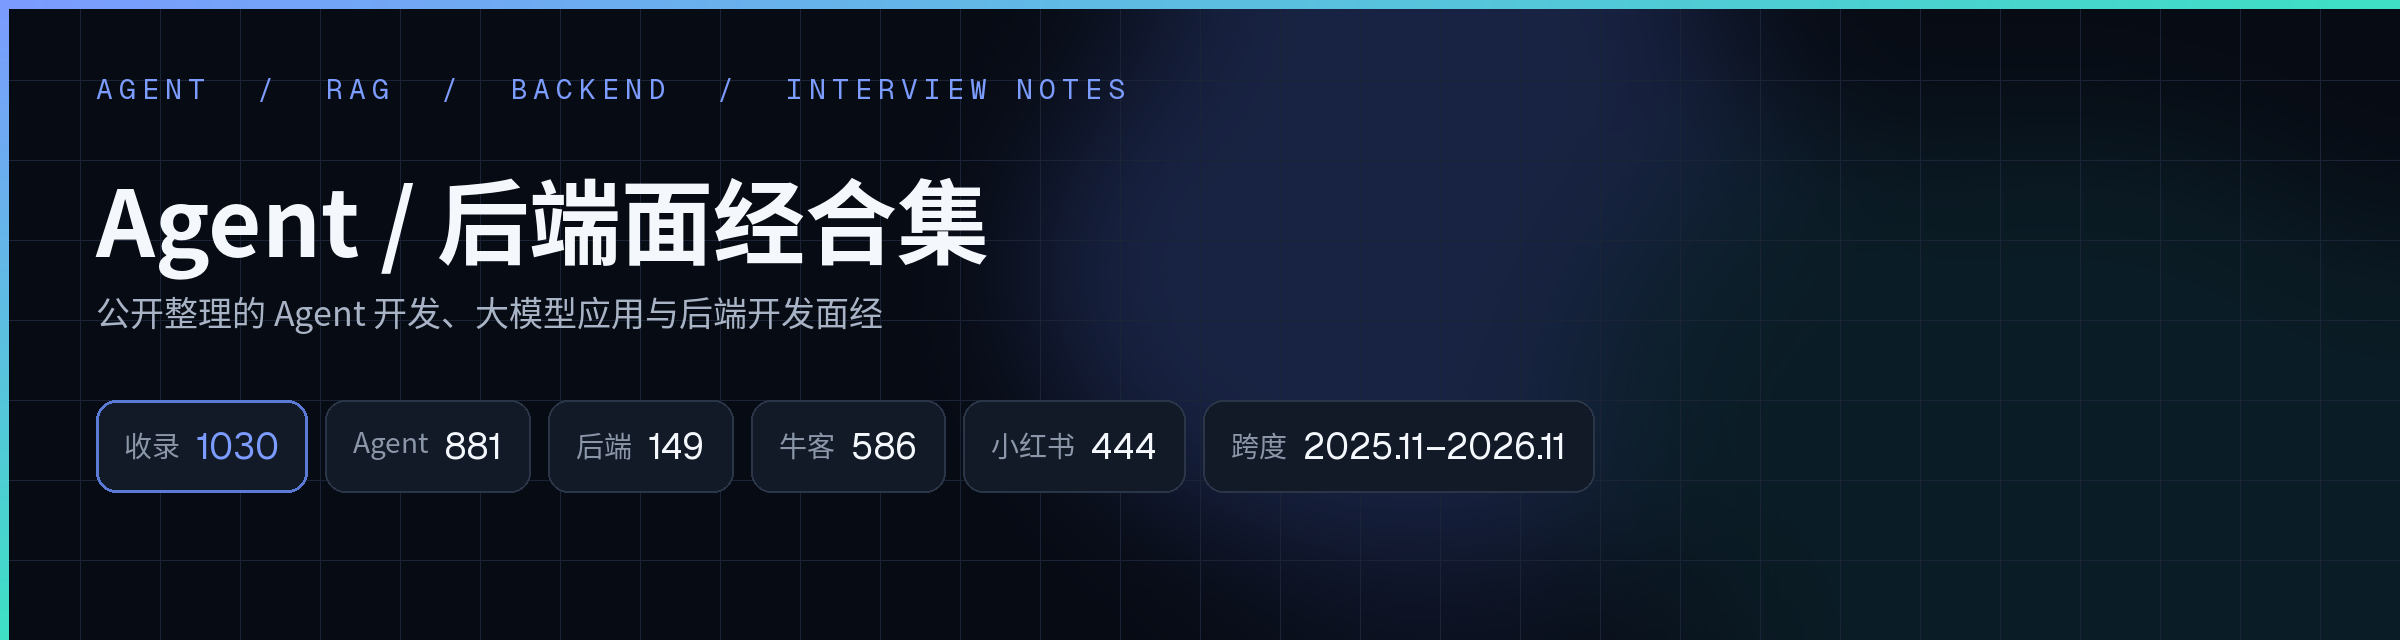
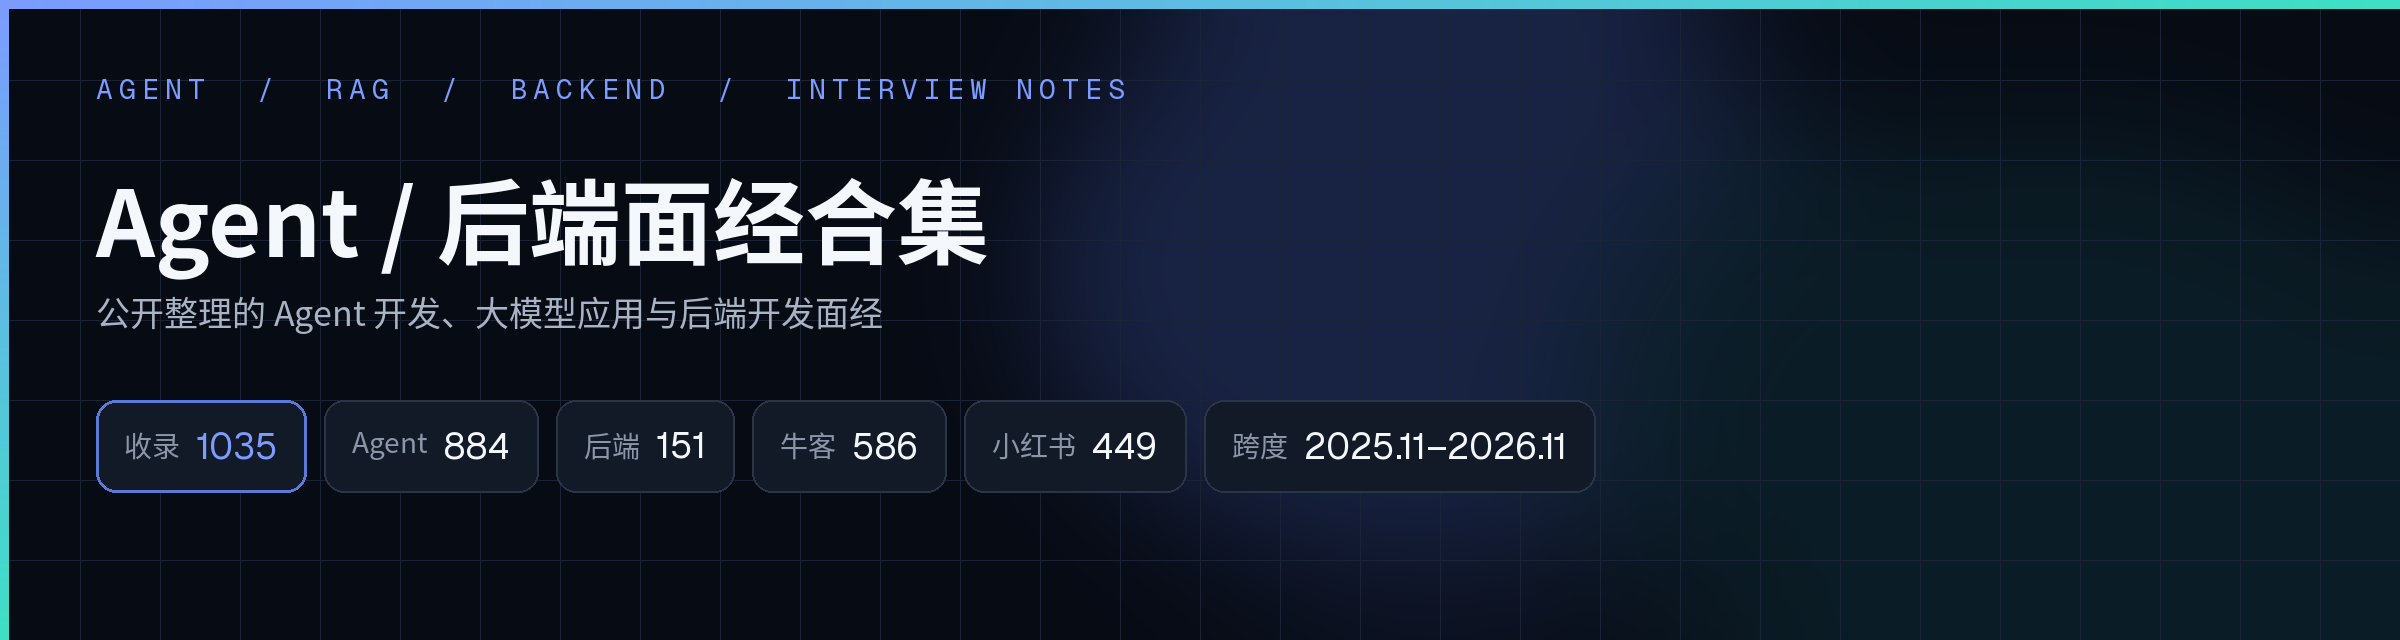
add 5 latest Xiaohongshu interview write-ups through 11-27
Record Tencent Cloud Zhi backend, ByteDance Agent intern, ByteDance AI Agent campus, Huolala Agent, and DJI backend interviews from the 2026-11-27 latest-01 batch.

Changed region(s): [[0.0938, 0.625, 0.6562, 0.75]]

diff --git a/backend/2026-11-27-腾讯云智-后台开发-一面.md b/backend/2026-11-27-腾讯云智-后台开发-一面.md
@@ -1,0 +1,55 @@
+# 腾讯云智后台开发一面
+
+> 腾讯云智 · 后台开发 · 招聘类型未注明 · 一面 · 结果未注明 · 详情页显示「1小时前 陕西」，报告按当天 2026-11-27 换算为 2026-11-27，这是相对日期换算，不是详情页上的月日原发日期，也不是面试日期；记为 2026-11-27，落在当前继续搜集的窗口（用户要求继续找面经，本批收到 2026-11-27） · 作者 Huuui · 来源：[小红书](https://www.xiaohongshu.com/explore/6b09261d000000002b0352bc)
+
+原帖标题按搜集报告为腾讯云智-后台开发-一面面经。公司按标题记为腾讯云智。岗位按报告记为后台开发，归入 backend/，不改成后端。招聘类型在已读材料里未见，不补推。轮次按标题记为一面。结果未见，不猜测。发帖日按页面「1小时前 陕西」、报告当天 2026-11-27 换算为 2026-11-27，已如实标明是换算结果。报告写题目在正文，全文，非局部。不与仓库中其他腾讯篇合并。同作者产品岗帖不收。
+
+## 速览
+
+- **重点**：腾讯云智后台开发一面。下面只整理搜集报告里已经可见的题意摘要，不是逐字原文，也不补答案。题目按报告分成实习经历拷打、技术问题拷打和算法三部分，覆盖多 Agent 平台、测试 Agent、Trace、可观测、Agent 设计模式、Redis 延时队列、进程间通信，以及 LRU cache。结果未见，不猜。
+- **难度**：腾讯云智后台开发一面。发帖日期依据：详情页显示「1小时前 陕西」，报告按当天 2026-11-27 换算为 2026-11-27，这是相对日期换算，不是详情页上的月日原发日期，也不是面试日期。
+- **题量**：仅按报告可见摘要整理，不把未见细节补成题目，也不声称全题已核。
+
+## 面经正文
+
+以下只整理搜集报告中已经看到的题意，不是逐字原文，也不补答案或手撕解法。本帖只见一面这一场，不拆文件。
+
+### 一面
+
+已读材料没有写出实际面试日期，也没有写明结果。下面只整理已列出的题意，不补答案，也不补手撕解法。
+
+#### 一、实习经历拷打
+
+1. 询问字节实习经历。
+2. 做多 Agent 平台的初衷。
+3. 测试用例这个 Agent，是通过自动化用例自己跑出来的吗，跑的目的是什么。
+4. 多 Agent 这块自己重点负责哪里。
+5. 多 Agent 系统有前后的依赖关系，如果需求 Agent 或开发 Agent 在设计或实现时就有问题，测试 Agent 怎么办。
+6. Trace 追踪能力这一块，为什么没有考虑把它做成一个 Agent。
+7. 多 Agent 架构编排中遇到的核心问题和卡点。
+8. 怎么考量多 Agent 系统是具备泛化能力的？怎么保证它对其他业务也适用。
+9. 业务配置层是一个配置的形式，还是一个知识库的形式。
+10. 针对模型输出不稳定这个现象，怎么去优化模型。
+11. 针对知识库和记忆本身，是业务本身别的记忆更重要，还是人为的配置更重要，还是两者必须结合。
+12. 怎么设计训练集和样本集。
+13. 有没有实际的需求在多 Agent 架构上完成过。
+14. 如果让你从头重新开始设计系统，哪个模块最关键。
+
+#### 二、技术问题拷打
+
+1. 怎么理解「可观测」。
+2. Trace 和 Log 之间有什么关系。
+3. trace ID 和 span ID 的区别。
+4. 如何理解 Trae 的 Harness？觉得哪部分做的不好。
+5. 说出一些 Agent 的设计模式。
+6. 如何看待测试开发和后台开发的差异。
+7. 如果让你使用 Redis 去实现一个延时队列，会怎么实现。
+8. 多 Agent 之间怎么通信？有用到哪些协议。
+9. TCP、MQTT、UDP。
+
+#### 三、算法
+
+1. 实现 LRU cache 算法。
+2. 对于设计 Cache，应该有哪些必要的参数。
+3. 如果没有设计容量会怎么样。
+4. 如果 cache 都是同时有、它是读多写少的，会考虑怎么优化。

diff --git a/agent/2026-11-27-字节跳动-Agent开发-实习-一面.md b/agent/2026-11-27-字节跳动-Agent开发-实习-一面.md
@@ -1,0 +1,65 @@
+# 字节跳动Agent开发实习一面
+
+> 字节跳动 · Agent开发 · 实习 · 一面 · 感谢信，作者认为可能被横向 · 详情页显示「14小时前 北京」，报告按当天 2026-11-27 换算为 2026-11-27，这是相对日期换算，不是详情页上的月日原发日期，也不是面试日期；记为 2026-11-27，落在当前继续搜集的窗口（用户要求继续找面经，本批收到 2026-11-27） · 作者 Vankey · 来源：[小红书](https://www.xiaohongshu.com/explore/6b086434000000002a01adb7)
+
+原帖标题按搜集报告为字节 Agent 一面（已凉）。公司按标题记为字节跳动。岗位按报告与作者评论记为 Agent 开发实习，归入 agent/；报告写帖子标签含 #大模型算法岗，但题目与评论均按开发岗讨论，不改成算法岗。轮次按标题记为一面。结果按报告为感谢信，作者认为可能被横向。发帖日按页面「14小时前 北京」、报告当天 2026-11-27 换算为 2026-11-27，已如实标明是换算结果。报告写题是事后回忆，正文全文，非局部。不与仓库中其他字节篇合并。
+
+## 速览
+
+- **重点**：字节跳动 Agent 开发实习一面。下面只整理搜集报告里已经可见的题意摘要，不是逐字原文，也不补答案。题目覆盖 Agent 高并发、Harness、父子 chunk、temperature/top-k、工具调用与输出方式、RAG、用户态内核态、上下文与长时记忆、测评、索引与 PostgreSQL、Skills，以及异步工具调用；手撕是无重复的最长子串。结果按报告为感谢信，作者认为可能被横向。
+- **难度**：字节跳动 Agent 开发实习一面。发帖日期依据：详情页显示「14小时前 北京」，报告按当天 2026-11-27 换算为 2026-11-27，这是相对日期换算，不是详情页上的月日原发日期，也不是面试日期。
+- **题量**：仅按报告可见摘要整理，不把未见细节补成题目，也不声称全题已核。
+
+## 面经正文
+
+以下只整理搜集报告中已经看到的题意，不是逐字原文，也不补答案或手撕解法。本帖只见一面这一场，不拆文件。
+
+### 一面
+
+已读材料没有写出实际面试日期。结果按报告为感谢信，作者认为可能被横向。下面只整理已列出的题意，不补答案，也不补手撕解法。
+
+做一个自我介绍。
+
+你们的 Agent 是运行在云端（服务器）上的，那么如何处理高并发的问题。
+
+介绍一下 harness 框架主要包括些什么。
+
+有了解过父子 chunk 吗，比较新的概念。
+
+解释一下大模型中的 temputature（原文）和 top-k。
+
+你的工具调用节点会返回给用户信息吗。
+
+整个流程是流式输出还是最后整体输出的。
+
+如果是最后汇总输出的那不会很慢吗？如何解决的。
+
+了解 RAG 吗，做的是向量召回还是什么。
+
+知道用户态和内核态吗。
+
+介绍一下各个进程之间的转换。
+
+你的工具调用是怎么设计的。
+
+上下文管理分层是怎么做的？知道长上下文吗。
+
+跨会话的上下文是怎么提取的？提取的内容包括哪些。
+
+这个长时记忆会伴随整个用户会话吗。
+
+如果发生用户的需求和对用户的上下文记忆冲突了你们是如何解决的。
+
+做过相关测评吗对于 Agent 的功能？如何测评的。
+
+知道索引吗？它的原理是什么。
+
+你使用的 postgreSQL 是否使用了索引？它的底层是什么原理或者数据结构。
+
+设计过 Skills 吗，它和 system prompt 有什么区别。
+
+你处理过异步工具调用吗？如果一个工具的运行需要很久的时间，那么该如何让模型进行处理。
+
+你的校验功能是实时的吗。
+
+手撕：无重复的最长子串。只保留题意，不补解法。

diff --git a/agent/2026-11-26-字节跳动-AI-Agent-校招-面经一.md b/agent/2026-11-26-字节跳动-AI-Agent-校招-面经一.md
@@ -1,0 +1,39 @@
+# 字节跳动27届AI Agent面经（一）
+
+> 字节跳动 · AI Agent · 校招 · 轮次未注明（标题为面经（一）） · 结果未注明 · 详情页显示「昨天 21:47 黑龙江」，报告按当天 2026-11-27 换算为 2026-11-26，这是相对日期换算，不是详情页上的月日原发日期，也不是面试日期；记为 2026-11-26，落在当前继续搜集的窗口（用户要求继续找面经，本批收到 2026-11-27） · 作者 歪比巴卜 · 来源：[小红书](https://www.xiaohongshu.com/explore/6b08385b000000002903c3c7)
+
+原帖标题按搜集报告为字节 27 届 AI Agent 面经（一）。公司按标题记为字节跳动。岗位按报告记为 AI Agent（27 届校招），归入 agent/；简介虽写算法方向，但本帖题目是 Agent 工程/Infra，不改成算法岗。轮次未明示，只按标题记为面经（一），不补推具体几面。结果未见，不猜测。发帖日按页面「昨天 21:47 黑龙江」、报告当天 2026-11-27 换算为 2026-11-26，已如实标明是换算结果。报告写正文全文，非局部。反问得知团队主要做面向内部业务的 Agent Infra 平台。不与仓库中其他字节篇合并。未见「面经（二）」。
+
+## 速览
+
+- **重点**：字节跳动 27 届 AI Agent 面经（一）。下面只整理搜集报告里已经可见的题意摘要，不是逐字原文，也不补答案。题目覆盖外层 Agent 与下游子 Agent 的划分、路由、多步编排、工具裁剪与评测，以及手撕无重复字符的最长子串。结果未见，不猜。
+- **难度**：字节跳动 27 届 AI Agent 面经（一）。发帖日期依据：详情页显示「昨天 21:47 黑龙江」，报告按当天 2026-11-27 换算为 2026-11-26，这是相对日期换算，不是详情页上的月日原发日期，也不是面试日期。
+- **题量**：仅按报告可见摘要整理，不把未见细节补成题目，也不声称全题已核。
+
+## 面经正文
+
+以下只整理搜集报告中已经看到的题意，不是逐字原文，也不补答案或手撕解法。本帖只见这一场，不拆文件，也不另编未见轮次。
+
+### 面经（一）
+
+已读材料没有写出实际面试日期，也没有写明结果。轮次未明示。下面只整理已列出的题意，不补答案，也不补手撕解法。
+
+1. 两到三分钟自我介绍。
+
+2. 下游本身就有各自的业务模块/子 Agent，为什么还要在外层再建一层 Agent？你们和下游怎么划分，什么场景下必须靠外层调度才能解决（会反复让举跨模块的实际例子）。
+
+3. 除了调度下游执行，外层 Agent 还承担哪些功能？怎么感知和路由不同的下游模块。
+
+4. 多步任务编排是怎么设计的，模型输出的是什么结构。
+
+5. 候选工具数量多了以后会有什么问题。
+
+6. 如果多个工具功能本身有重复，动态筛选能解决重复问题吗，为什么不在工具注册阶段直接合并过滤。
+
+7. 工具裁剪前后做过 token 消耗的量级评估吗？在多轮长上下文或 System Prompt 较长的情况下，少几个工具实际占比有多大。
+
+8. 怎么评估编排和工具优化前后的效果，中间产物有没有评测，具体看哪些指标。
+
+手撕：无重复字符的最长子串。先聊思路再写，写完后要求自己补全覆盖不同边界类型的测试用例。只保留题意，不补解法。
+
+反问：团队主要做面向内部业务的 Agent Infra 平台。

diff --git a/agent/2026-11-26-货拉拉-Agent-校招-一面.md b/agent/2026-11-26-货拉拉-Agent-校招-一面.md
@@ -1,0 +1,29 @@
+# 货拉拉Agent一面
+
+> 货拉拉 · Agent · 校招 · 一面 · 面试官反馈较好，但一周无反馈，作者已不抱希望 · 详情页显示「昨天 21:46 重庆」，报告按当天 2026-11-27 换算为 2026-11-26，这是相对日期换算，不是详情页上的月日原发日期，也不是面试日期；记为 2026-11-26，落在当前继续搜集的窗口（用户要求继续找面经，本批收到 2026-11-27） · 作者 27届秋招呱呱🐸（蔚来黑子版） · 来源：[小红书](https://www.xiaohongshu.com/explore/6b0838210000000019037323)
+
+原帖标题按搜集报告为 11.18 货拉拉 Agent 一面。公司按标题记为货拉拉。岗位按报告记为 Agent（校招），归入 agent/。轮次按标题记为一面。面试日按标题为 11.18，未标年份，不另推年份。结果按报告为面试官反馈较好，但一周无反馈，作者已不抱希望。发帖日按页面「昨天 21:46 重庆」、报告当天 2026-11-27 换算为 2026-11-26，已如实标明是换算结果。报告写题在正文与 2 张图，全文，非局部。不与同作者其他篇或仓库中其他货拉拉篇合并。
+
+## 速览
+
+- **重点**：货拉拉 Agent 一面。下面只整理搜集报告里已经可见的题意摘要，不是逐字原文，也不补答案。题目覆盖实习与项目、多用户权限隔离、skill 更新与 Agent 上下文一致性、沙箱并发隔离，以及群聊 session 粒度。结果按报告为面试官反馈较好，但一周无反馈，作者已不抱希望。
+- **难度**：货拉拉 Agent 一面。发帖日期依据：详情页显示「昨天 21:46 重庆」，报告按当天 2026-11-27 换算为 2026-11-26，这是相对日期换算，不是详情页上的月日原发日期，也不是面试日期。面试日按标题为 11.18，未标年份，不另推年份。
+- **题量**：仅按报告可见摘要整理，不把未见细节补成题目，也不声称全题已核。
+
+## 面经正文
+
+以下只整理搜集报告中已经看到的题意，不是逐字原文，也不补答案。本帖只见一面这一场，不拆文件。
+
+### 一面
+
+标题写这场面试是 11.18，未标年份，不另推年份。结果按报告为面试官反馈较好，但一周无反馈，作者已不抱希望。下面只整理已列出的题意，不补答案。
+
+实习+项目。报告未还原项目名，这里不补。
+
+怎么保证不同用户使用 agent 不会越权使用其他人的资源。
+
+skill 更新与 Agent 上下文的一致性（原文「skill更新与Agent上下文呢一致性」）。
+
+沙箱，多用户并发怎么隔离；同一用户并发复用同一沙箱会不会读到上一个会话查了一半的数据；同一用户多 session 复用沙箱会不会文件冲突。
+
+agent 接入群聊，对于群用户这个 session 粒度怎么设置。

diff --git a/backend/2026-11-26-大疆-后端工程师-校招-一面.md b/backend/2026-11-26-大疆-后端工程师-校招-一面.md
@@ -1,0 +1,35 @@
+# 大疆后端工程师一面
+
+> 大疆 · 后端工程师 · 校招 · 一面 · 发帖时已等 3 天无消息，等待中 · 详情页显示「昨天 21:36 重庆」，报告按当天 2026-11-27 换算为 2026-11-26，这是相对日期换算，不是详情页上的月日原发日期，也不是面试日期；记为 2026-11-26，落在当前继续搜集的窗口（用户要求继续找面经，本批收到 2026-11-27） · 作者 27届秋招呱呱🐸（蔚来黑子版） · 来源：[小红书](https://www.xiaohongshu.com/explore/6b0835e20000000019037290)
+
+原帖标题按搜集报告为 11.23 大疆后端工程师一面。公司按标题记为大疆。岗位按报告记为后端工程师（校招），归入 backend/。轮次按标题记为一面。面试日按标题为 11.23，未标年份，不另推年份。结果按报告为发帖时已等 3 天无消息，等待中。发帖日按页面「昨天 21:36 重庆」、报告当天 2026-11-27 换算为 2026-11-26，已如实标明是换算结果。报告写题在配图，正文有错字，以下按图，全文，非局部。不与同作者其他篇或仓库中其他大疆篇合并。
+
+## 速览
+
+- **重点**：大疆后端工程师一面。下面只整理搜集报告里已经可见的题意摘要，不是逐字原文，也不补答案。题目覆盖实习与项目、MySQL 连接池、线程池、下游接口慢排查、微调过拟合，以及城市选择和后续进展。结果按报告为发帖时已等 3 天无消息，等待中。
+- **难度**：大疆后端工程师一面。发帖日期依据：详情页显示「昨天 21:36 重庆」，报告按当天 2026-11-27 换算为 2026-11-26，这是相对日期换算，不是详情页上的月日原发日期，也不是面试日期。面试日按标题为 11.23，未标年份，不另推年份。
+- **题量**：仅按报告可见摘要整理，不把未见细节补成题目，也不声称全题已核。
+
+## 面经正文
+
+以下只整理搜集报告中已经看到的题意，不是逐字原文，也不补答案。本帖只见一面这一场，不拆文件。
+
+### 一面
+
+标题写这场面试是 11.23，未标年份，不另推年份。结果按报告为发帖时已等 3 天无消息，等待中。下面只整理已列出的题意，不补答案。报告写正文有错字，以下按图。
+
+实习+项目。报告未还原项目名，这里不补。
+
+MySQL 连接池打满排查与优化。
+
+线程池核心参数与拒绝策略。
+
+调用下游接口慢排查，重试失败怎么处理（原文图里写成「调用下游借口借口慢排查」）。
+
+微调模型遇到过拟合吗，怎么处理。
+
+想来深圳还是上海。
+
+3 天还没有消息了，会有后续吗。
+
+（作者收尾：想要疆湖再见）
